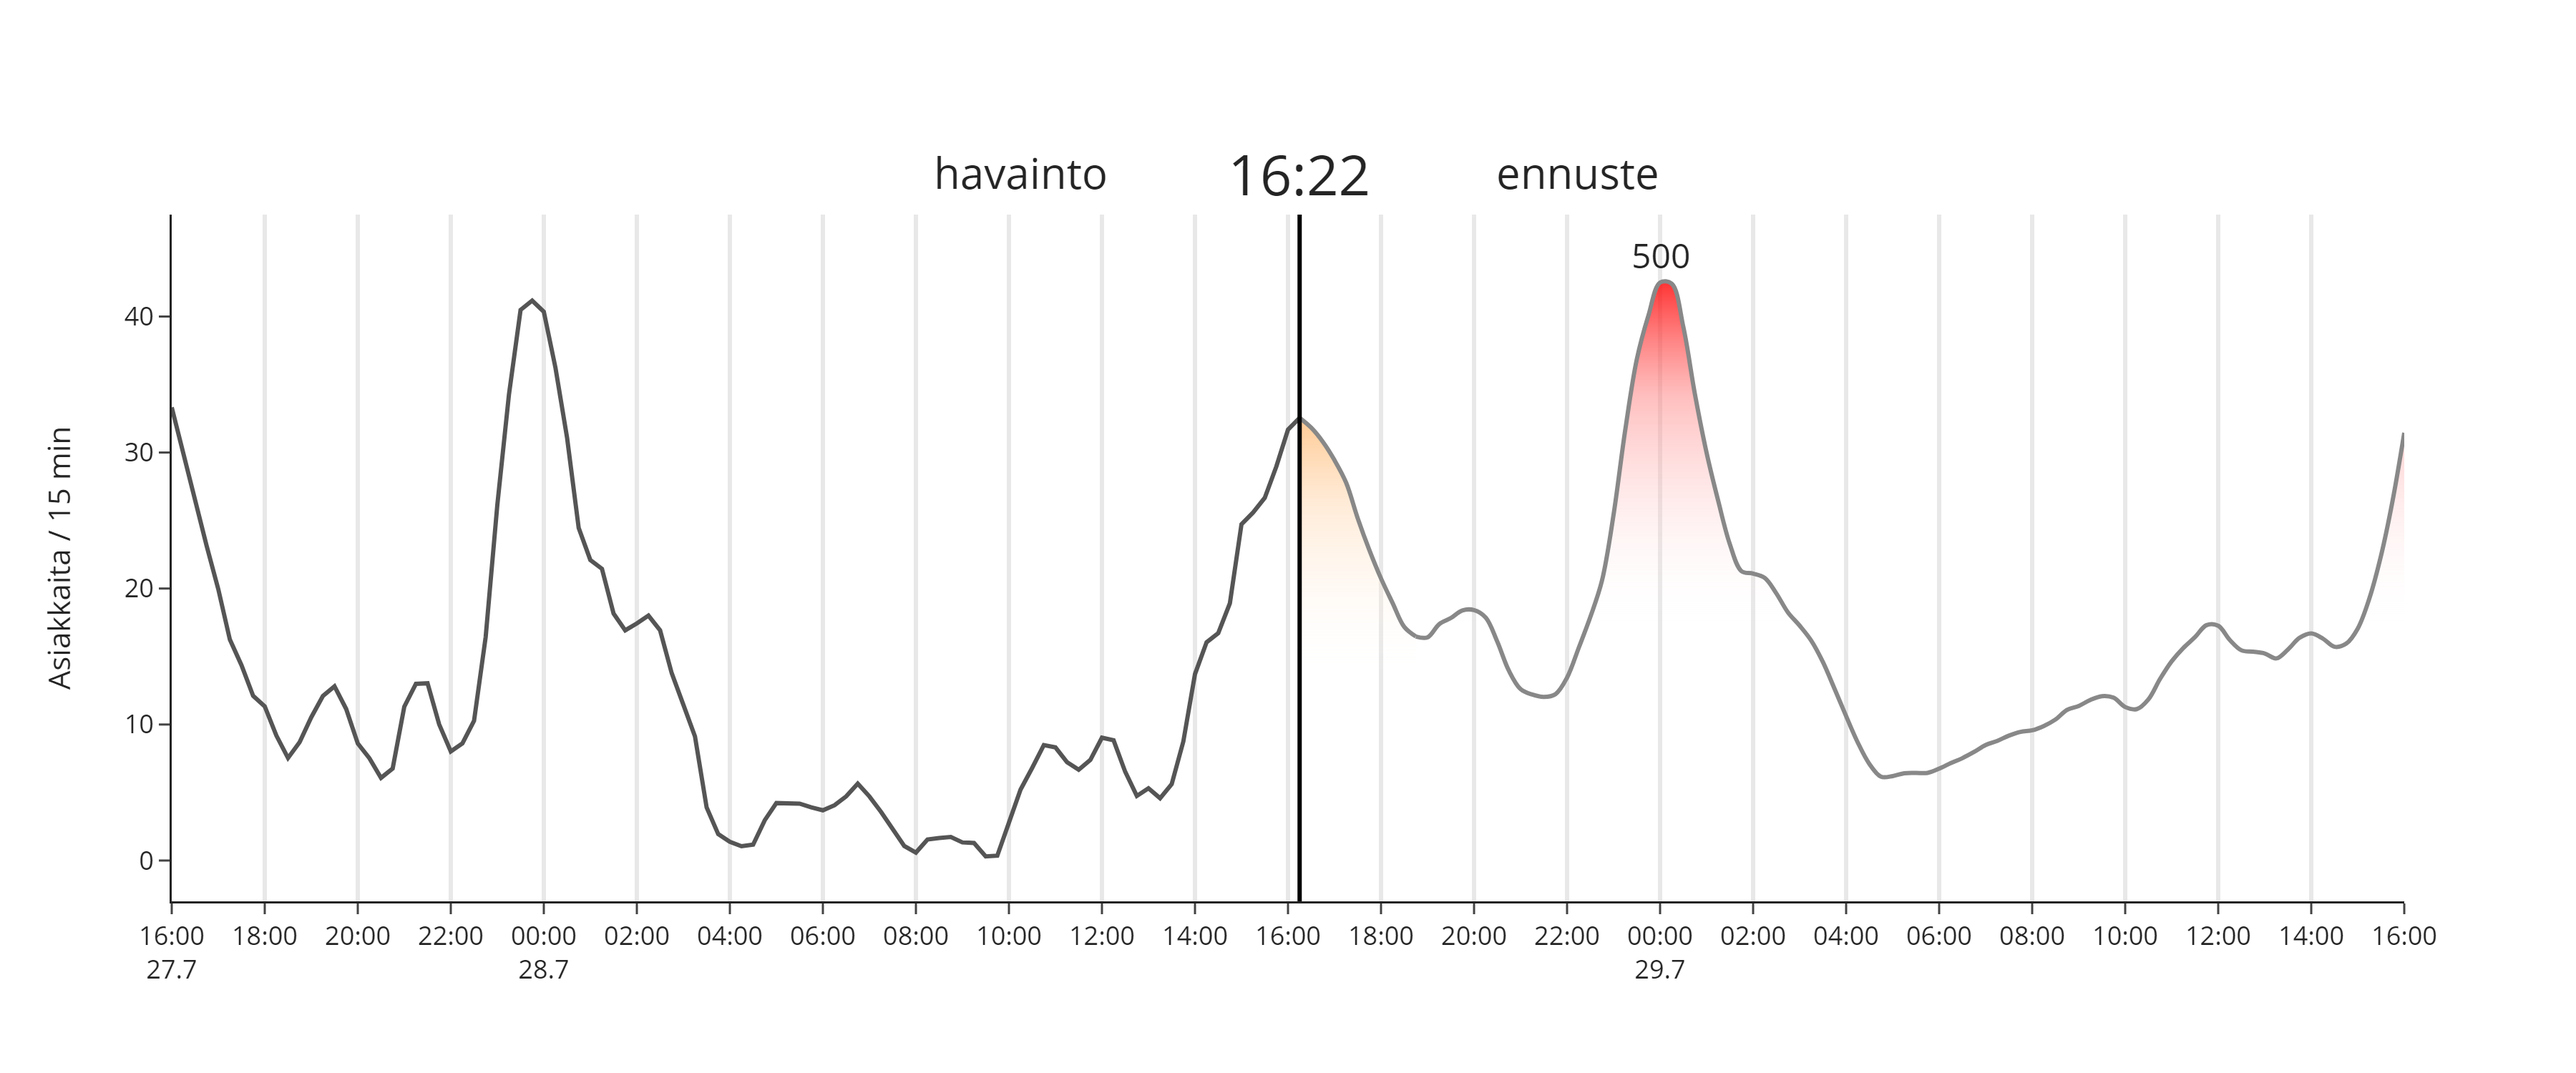
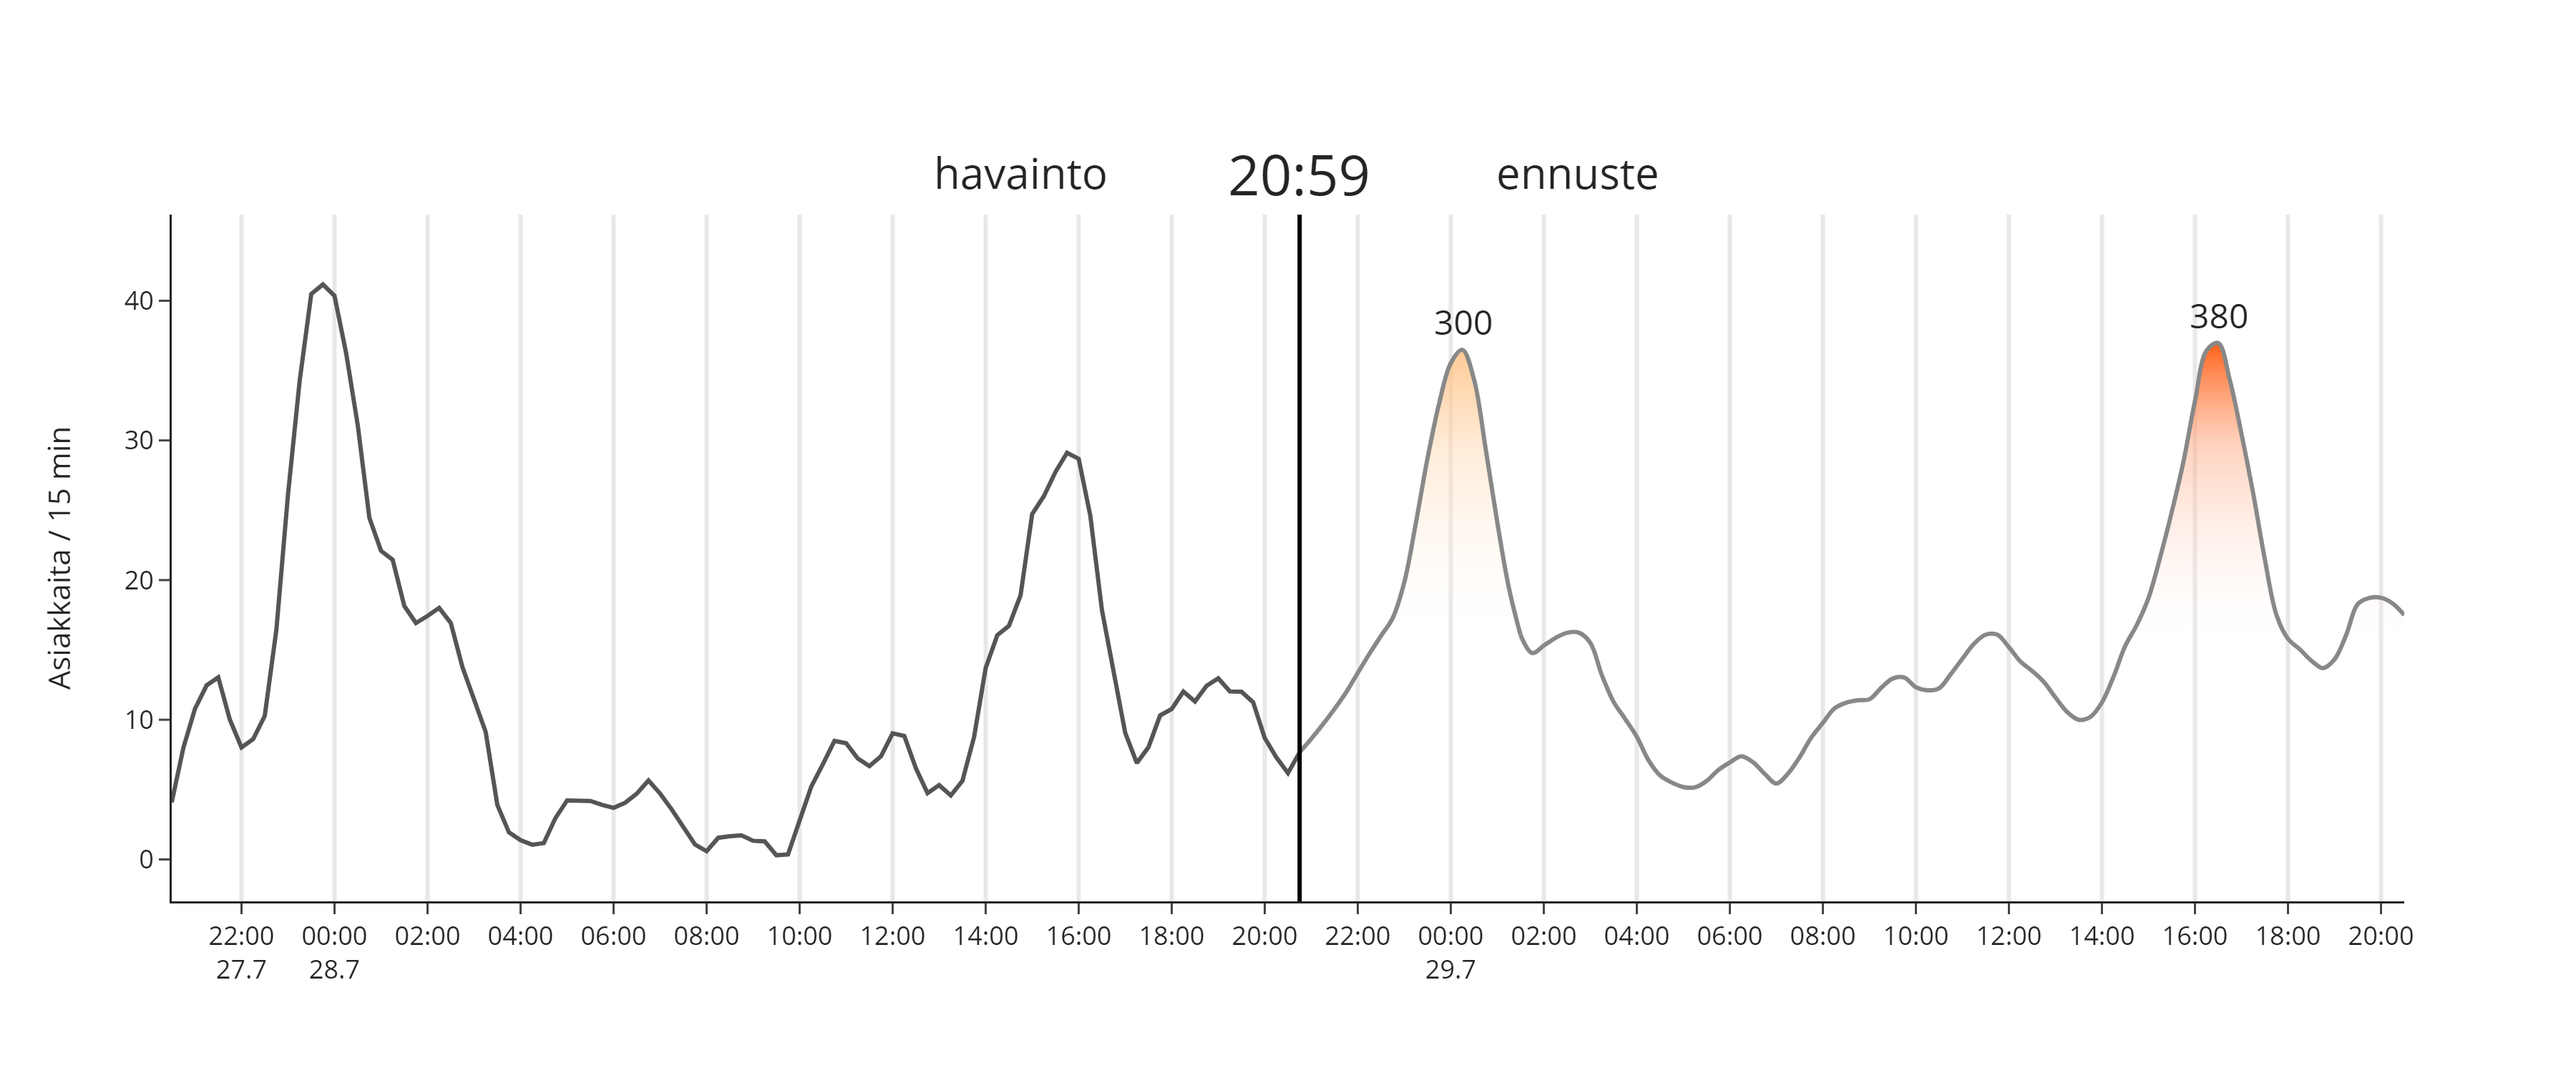
Lower image quality and add sql filter

diff --git a/taxipoint.py b/taxipoint.py
@@ -17,20 +17,26 @@ import plotly.graph_objects as go
 from plotly.subplots import make_subplots
 
 
-
+def time_now_15():
+    return pd.Timestamp(dt.datetime.now()).floor("15min")
 
 def get_sql_table(table, sql_engine):
     conn = sql_engine.connect()
+
+    if table == "rides":
+        t_now = time_now_15() - dt.timedelta(days=1)
+        date_f = str(t_now.date())
+        df = pd.read_sql(f"SELECT * FROM {table} WHERE date > '{date_f}'", con=conn)
+
     df = pd.read_sql(f"SELECT * FROM {table}", con=conn)
+
+
     try:
         df = df.sort_values(by=["date", "time"], ascending=True)
     except:
         None
     conn.close()
     return df
-
-def time_now_15():
-    return pd.Timestamp(dt.datetime.now()).floor("15min")
 
 def get_ride_data(x_time=time_now_15(), grouper_freq="15min", savgol=9, sql_engine=None):
     """

diff --git a/taxipoint_st.py b/taxipoint_st.py
@@ -9,7 +9,7 @@ from PIL import Image
 
 # # #
 os.environ['TZ'] = 'Europe/Helsinki'
-time.tzset()
+# time.tzset()
 
 db_str = st.secrets["db_str"]
 sql_engine = create_engine(db_str)
@@ -39,7 +39,7 @@ container2 = st.empty()
 
 def get_loading_image():
     image = Image.open("plot.png")
-    scale = 0.2
+    scale = 0.15
     w = int(3500 * scale)
     h = int(1500 * scale)
     image = image.resize((w,h))
@@ -47,7 +47,7 @@ def get_loading_image():
     data = image.getdata()
     new_data = []
     for item in data:
-        new_data.append((item[0], item[1], item[2], 128))
+        new_data.append((item[0], item[1], item[2], 100))
     loading_image.putdata(new_data)
     return loading_image
 
